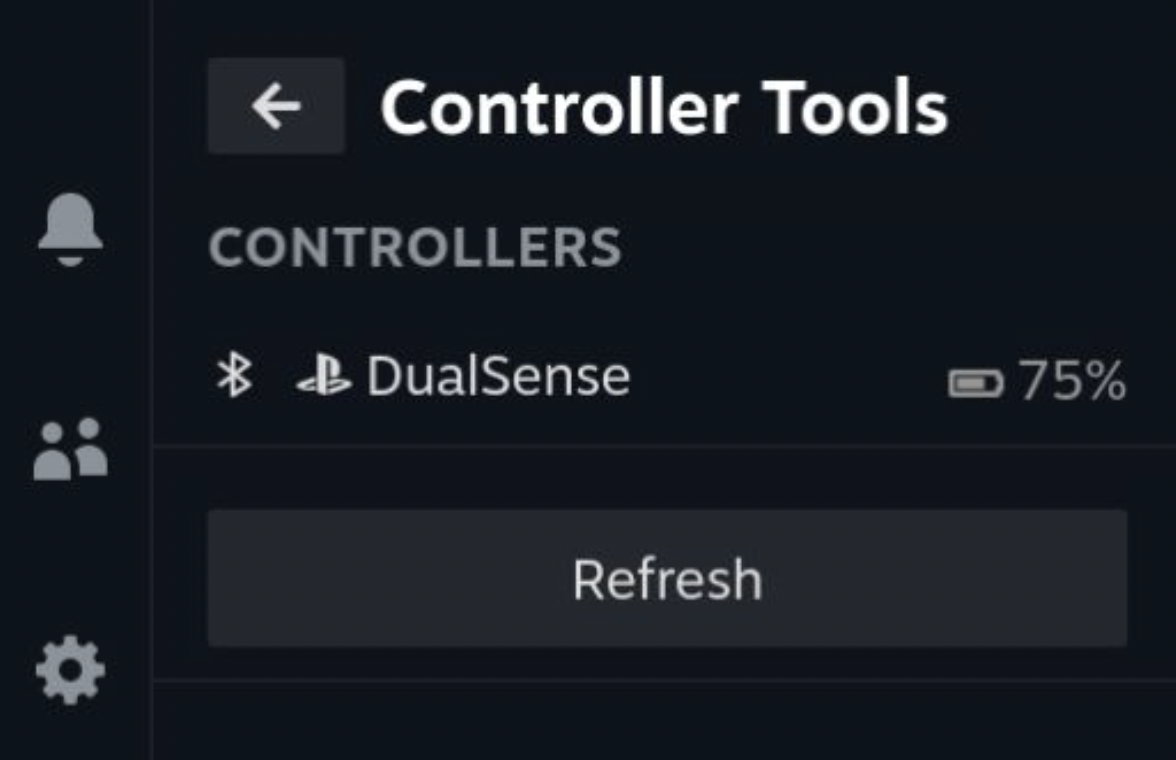
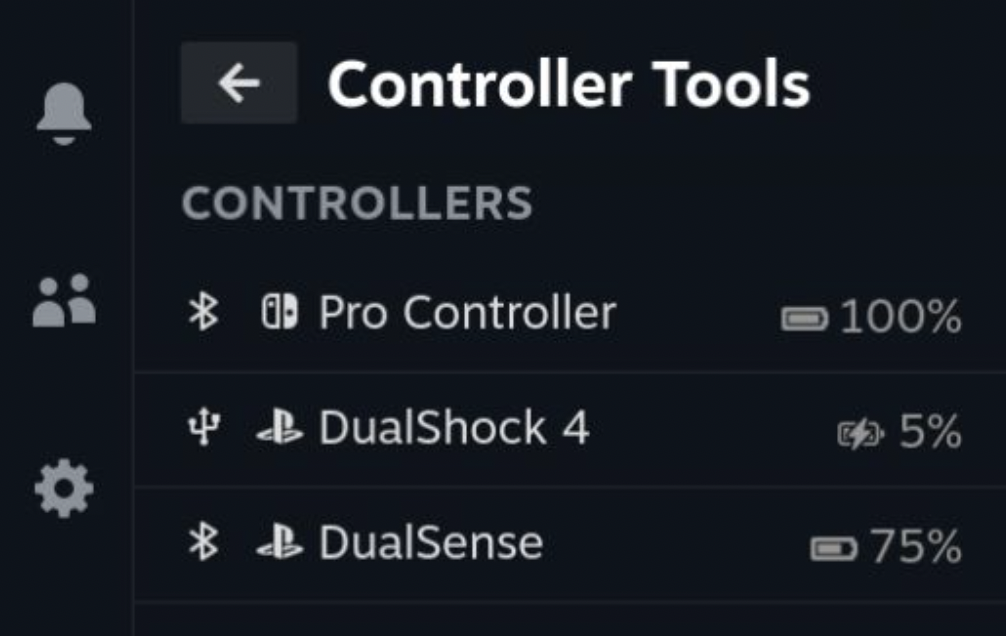
Update README

diff --git a/README.md b/README.md
@@ -1,11 +1,14 @@
 # Power Tools
 ![plugin_demo](./assets/decky-store-cover.png)
 
-Steam Deck game controller plugin for [Decky Loader](https://github.com/SteamDeckHomebrew/decky-loader). Displays the current battery % and charging status. 
+Steam Deck game controller plugin for [Decky Loader](https://github.com/SteamDeckHomebrew/decky-loader). Displays the connection type (Bluetooth, USB), current battery %, and charging status. 
 
 ## Supported Controllers
 * PlayStation DualSense
 * Playstation DualShock 4
+* Nintendo Switch Pro Controller
+* Xbox Series X|S Controller (limited support)
+* Xbox One Controller (limited support)
 
 ## Installation
 1. Install [Decky Loader](https://github.com/SteamDeckHomebrew/decky-loader).
